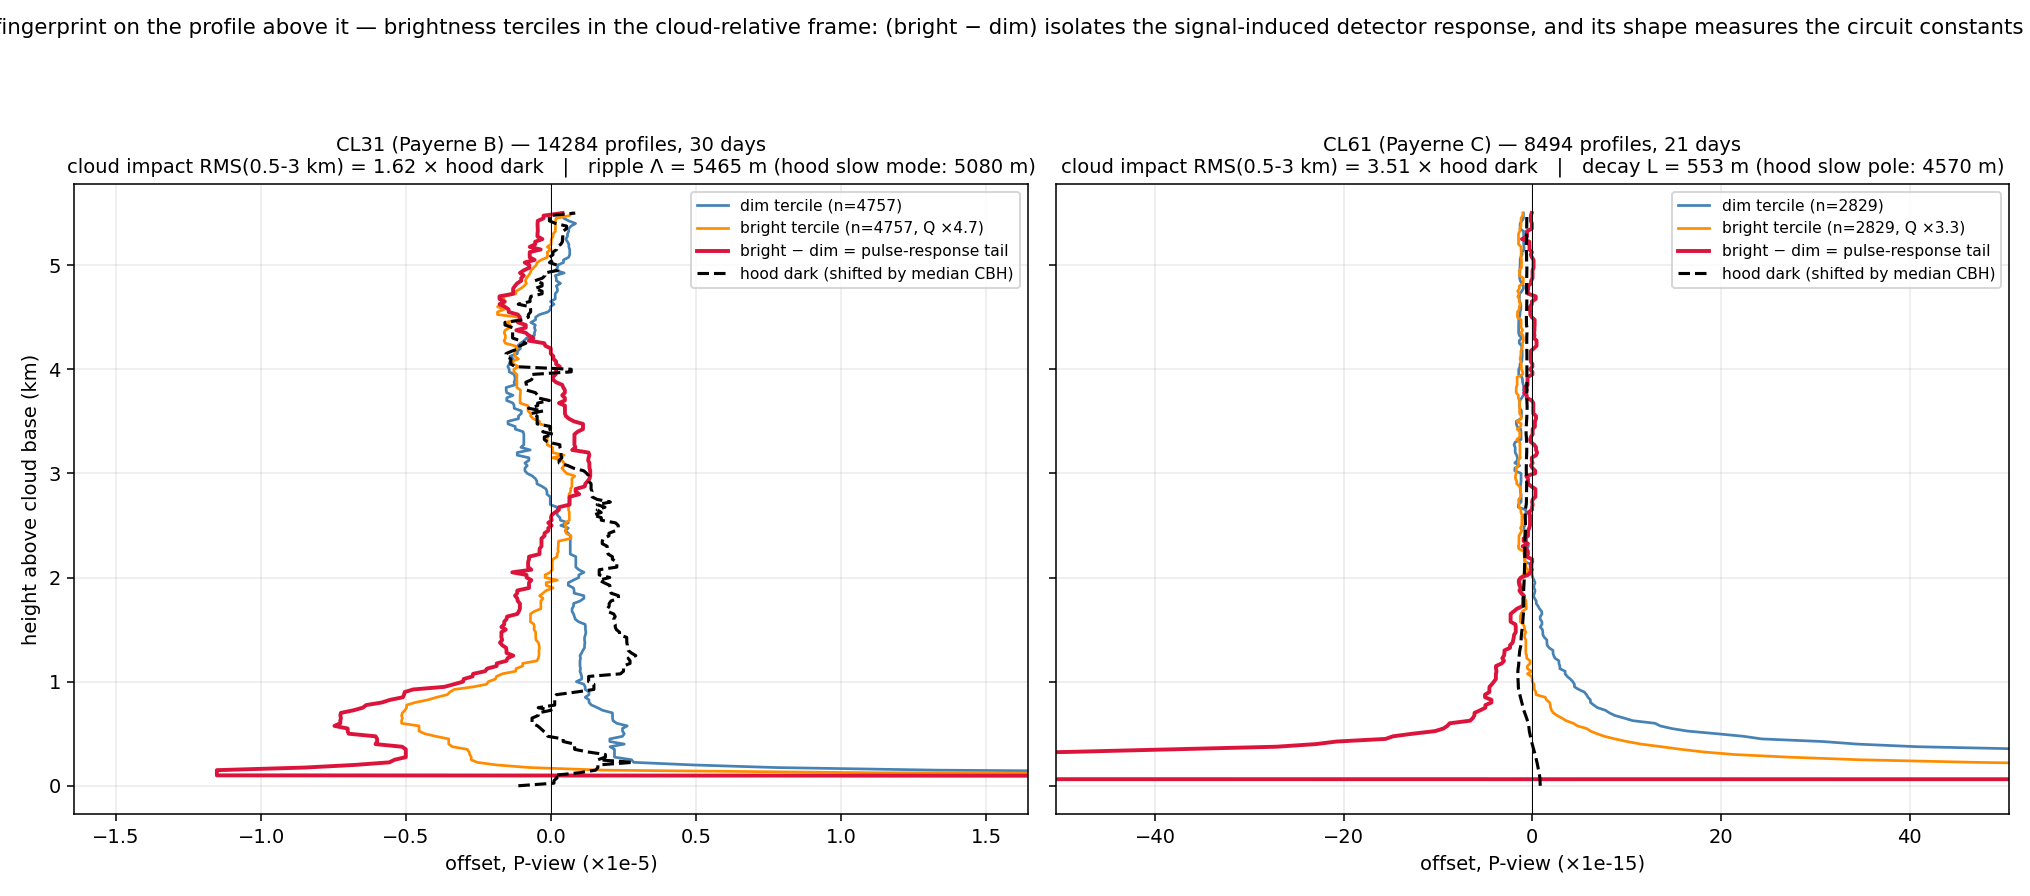
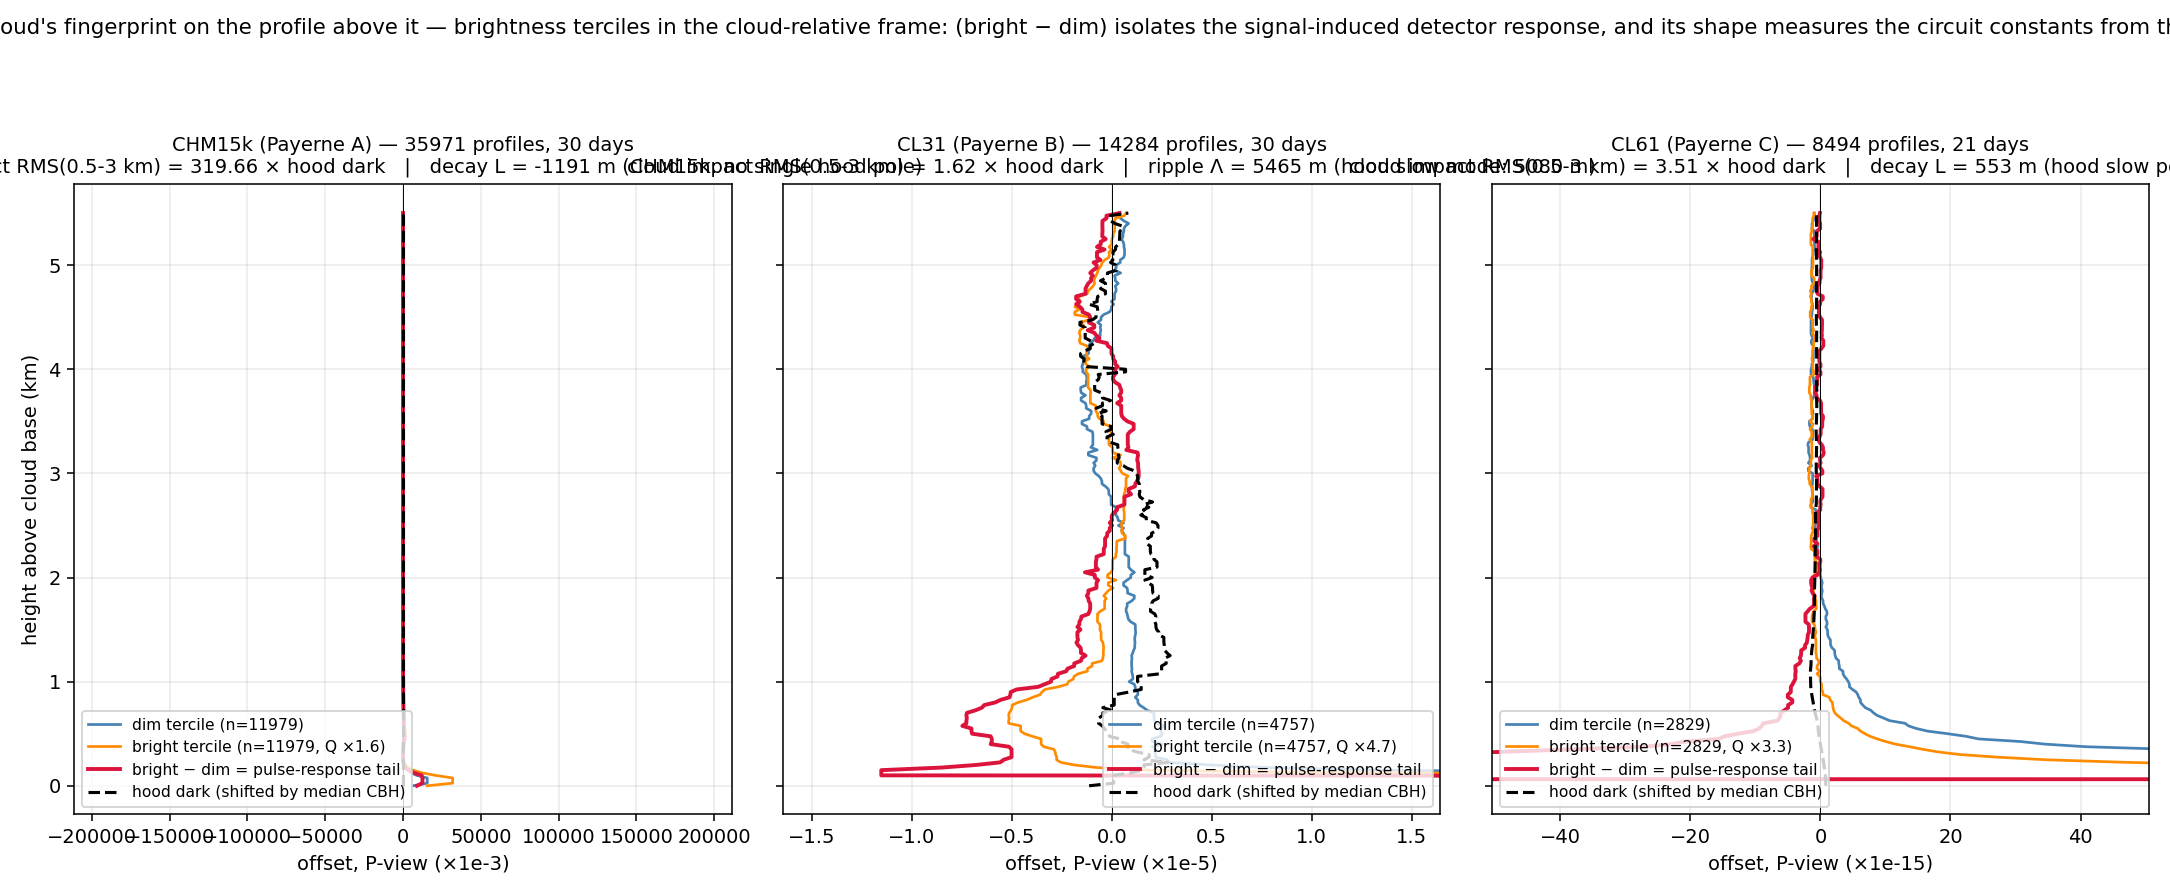
remote dark: CHM15k cloud fingerprint - saturation anatomy measured (lever x1.6, x320 hood)
Third panel on fig18: the brightness terciles dissect the CHM15k saturation
artefact. Charge lever compressed to x1.6 (analog Vaisalas: x4.7/x3.3) =
dead-time clipping measured remotely; response x320 the hood dark over
0.5-3 km above CBH (~1000x in the first km), still charge-dependent
(linearity 1.57) so not a fixed subtractable pattern, and it grows away from
the cloud - no linear-filter tail. Natural hood confirmed unusable for the
CHM15k dark; the fingerprint doubles as a per-unit detector-health probe.

diff --git a/remote_dark/exp_cloud_impact.py b/remote_dark/exp_cloud_impact.py
@@ -91,8 +91,9 @@ def main():
     import sys
     sys.stdout.reconfigure(encoding="utf-8", errors="replace")
     from scipy.optimize import curve_fit
-    fig, axes = plt.subplots(1, 2, figsize=(14.5, 6.4), sharey=True)
-    for ax, ident, itype in zip(axes, "BC", ("CL31", "CL61")):
+    fig, axes = plt.subplots(1, 3, figsize=(15.5, 6.4), sharey=True)
+    scales = {"A": (1e3, "(×1e-3)"), "B": (1e5, "(×1e-5)"), "C": (1e15, "(×1e-15)")}
+    for ax, ident, itype in zip(axes, "ABC", ("CHM15k", "CL31", "CL61")):
         Y, Q, CB, n_days = collect(ident)
         t1, t2 = np.nanpercentile(Q, [33.3, 66.7])
         dim = np.nanmedian(Y[Q <= t1], axis=0)
@@ -114,17 +115,15 @@ def main():
         hood_rel = np.interp(med_cb + ZREL, trng, b_rcs / zt ** 2,
                              left=np.nan, right=np.nan)
 
-        ax.plot(smooth(dim) * 1e15 if ident == "C" else smooth(dim) * 1e5,
-                ZREL / 1e3, "-", color="steelblue", lw=1.4,
+        sc0 = scales[ident][0]
+        ax.plot(smooth(dim) * sc0, ZREL / 1e3, "-", color="steelblue", lw=1.4,
                 label=f"dim tercile (n={int((Q <= t1).sum())})")
-        ax.plot(smooth(bright) * 1e15 if ident == "C" else smooth(bright) * 1e5,
-                ZREL / 1e3, "-", color="darkorange", lw=1.4,
+        ax.plot(smooth(bright) * sc0, ZREL / 1e3, "-", color="darkorange", lw=1.4,
                 label=f"bright tercile (n={int((Q >= t2).sum())}, Q ×{lever:.1f})")
-        ax.plot(smooth(diff) * 1e15 if ident == "C" else smooth(diff) * 1e5,
-                ZREL / 1e3, "-", color="crimson", lw=2.0,
+        ax.plot(smooth(diff) * sc0, ZREL / 1e3, "-", color="crimson", lw=2.0,
                 label="bright − dim = pulse-response tail")
-        ax.plot(smooth(hood_rel) * 1e15 if ident == "C" else smooth(hood_rel) * 1e5,
-                ZREL / 1e3, "k--", lw=1.6, label="hood dark (shifted by median CBH)")
+        ax.plot(smooth(hood_rel) * sc0, ZREL / 1e3, "k--", lw=1.6,
+                label="hood dark (shifted by median CBH)")
         ax.axvline(0, color="k", lw=0.5)
 
         # quantify: impact size vs the hood-dark scale in the same window
@@ -135,10 +134,12 @@ def main():
         note = ""
         d_s = smooth(diff)
         try:
-            if ident == "C":
-                m = jm & (d_s < 0)
-                p = np.polyfit(ZREL[m], np.log(-d_s[m]), 1)
-                note = f"decay L = {-1 / p[0]:.0f} m (hood slow pole: 4570 m)"
+            if ident in "AC":
+                sgn = -1.0 if np.nanmedian(d_s[jm]) < 0 else 1.0
+                m = jm & (sgn * d_s > 0)
+                p = np.polyfit(ZREL[m], np.log(sgn * d_s[m]), 1)
+                ref_note = " (hood slow pole: 4570 m)" if ident == "C" else                     " (CHM15k: no single hood pole)"
+                note = f"decay L = {-1 / p[0]:.0f} m{ref_note}"
             else:
                 fm = (ZREL >= 200) & (ZREL <= 3000)
 
@@ -153,19 +154,21 @@ def main():
         ax.set_title(f"{itype} (Payerne {ident}) — {Y.shape[0]} profiles, {n_days} days\n"
                      f"cloud impact RMS(0.5-3 km) = {imp / hs:.2f} × hood dark   |   {note}",
                      fontsize=10)
-        ax.set_xlabel("offset, P-view " + ("(×1e-15)" if ident == "C" else "(×1e-5)"))
+        lin = float(np.sqrt(np.nanmean(diff[jm] ** 2))
+                    / max(np.sqrt(np.nanmean((dim[jm] - hood_rel[jm]) ** 2)), 1e-300))
+        ax.set_xlabel("offset, P-view " + scales[ident][1])
         # x-limits from the ABOVE-cloud structure — the cloud peak at z'=0 is off-scale
         sc = 1e15 if ident == "C" else 1e5
         vm = (ZREL >= 400)
         ref = np.concatenate([smooth(diff)[vm], smooth(hood_rel)[vm]]) * sc
         span = np.nanmax(np.abs(ref[np.isfinite(ref)]))
         ax.set_xlim(-2.2 * span, 2.2 * span)
-        if ident == "B":
+        if ident == "A":
             ax.set_ylabel("height above cloud base (km)")
         ax.grid(alpha=0.25)
         ax.legend(fontsize=8, loc="best")
         print(f"{itype}: {Y.shape[0]} prof / {n_days} d, Q lever ×{lever:.1f}, "
-              f"impact/hood = {imp / hs:.2f}, {note}")
+              f"impact/hood = {imp / hs:.2f}, charge-linearity = {lin:.2f}, {note}")
     fig.suptitle("The cloud's fingerprint on the profile above it — brightness terciles in the "
                  "cloud-relative frame: (bright − dim) isolates the signal-induced detector "
                  "response, and its shape measures the circuit constants from the sky",

diff --git a/doc/reports/16_remote_dark_campaign.md b/doc/reports/16_remote_dark_campaign.md
@@ -396,6 +396,15 @@ isolates the signal-induced pulse response, dark and internal-pulse terms cancel
   offset (fig16's x2 excess explained). Recipe: gates >= ~2 km above CBH + per-gate Q-slope
   removal (lever x3.3 between terciles).
 
+- CHM15k (added on operator request): the same terciles dissect the SATURATION artefact.
+  Charge lever compressed to x1.6 (vs x4.7 / x3.3 on the analog Vaisalas) - dead-time clipping
+  erases most of the true brightness differences, the photon-counting fingerprint. The response
+  is colossal (RMS 320 x hood-dark over 0.5-3 km above CBH, ~1000x in the first km), still
+  charge-dependent (linearity 1.57) so NOT a fixed subtractable pattern, and grows away from
+  the cloud instead of relaxing - no linear-filter tail. Confirms fig16: the natural hood is
+  unusable for the CHM15k dark; but the fingerprint itself is a per-unit health probe (its
+  drift tracks detector ageing) and its charge-compression is a remote dead-time measurement.
+
 ![Cloud impact](figs_remote_dark/fig18_cloud_impact.png)
 
 Standing summary of the natural-hood chain: opaque night clouds switch the atmosphere off;
